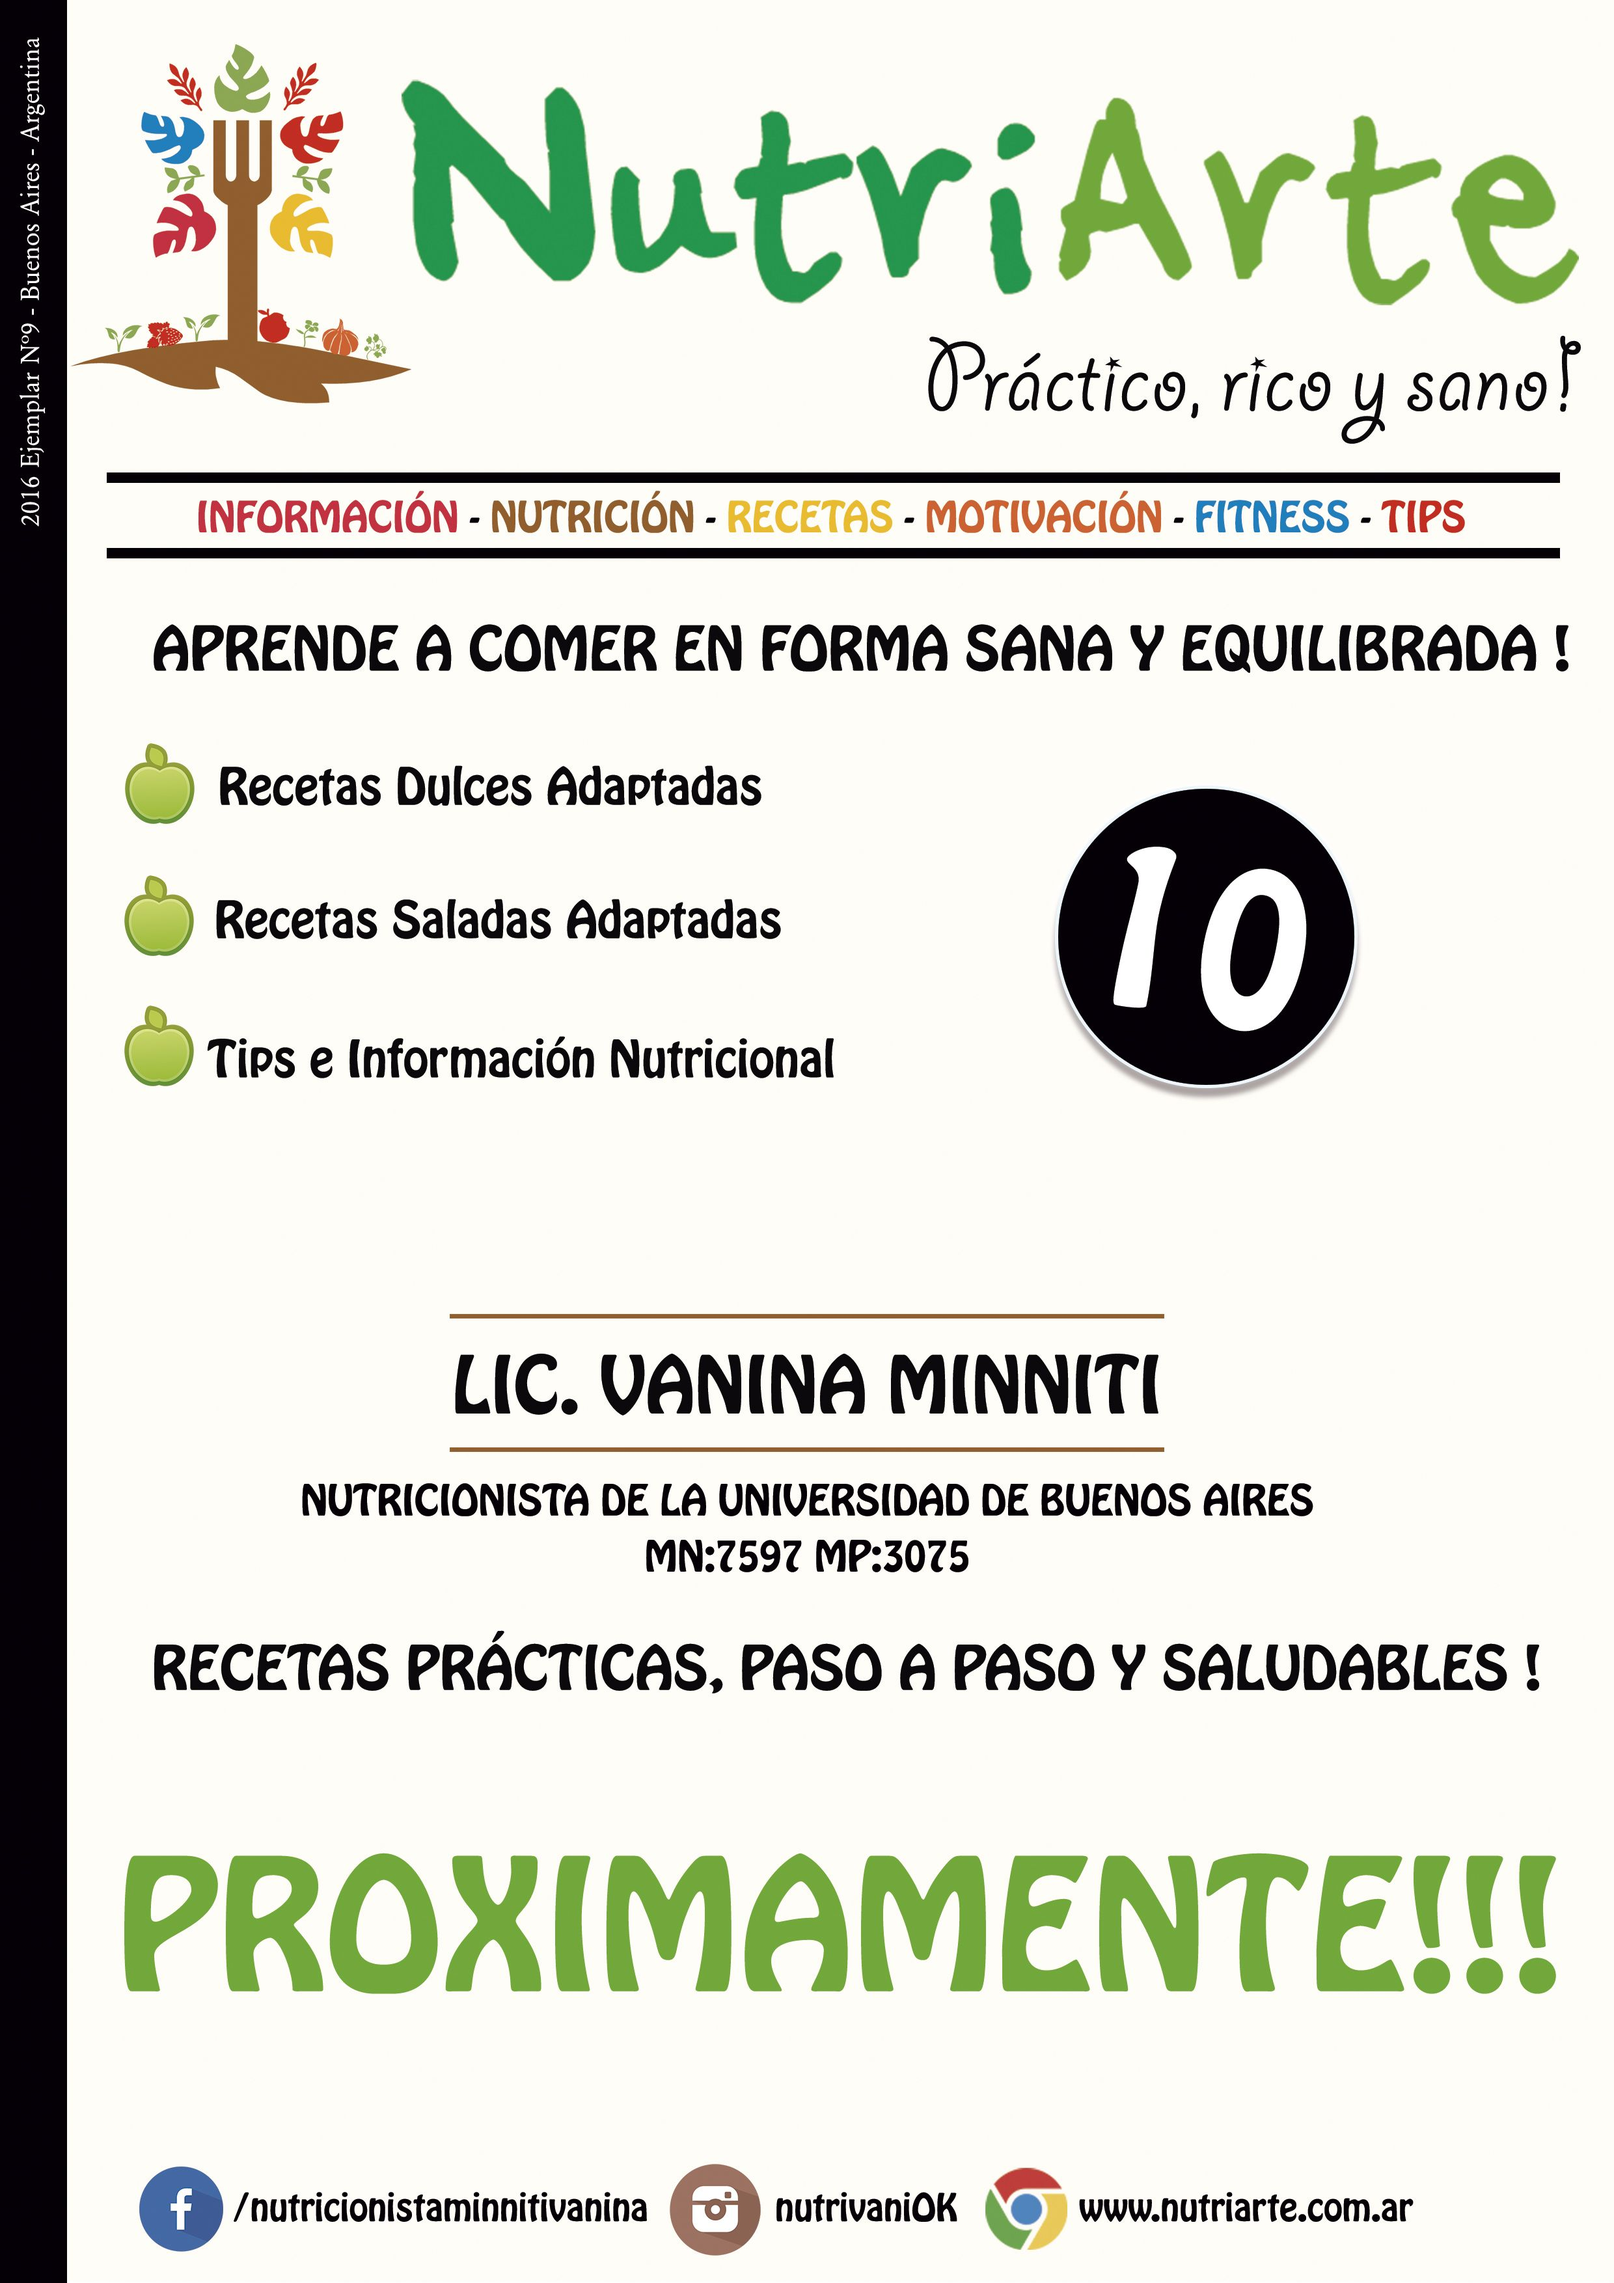
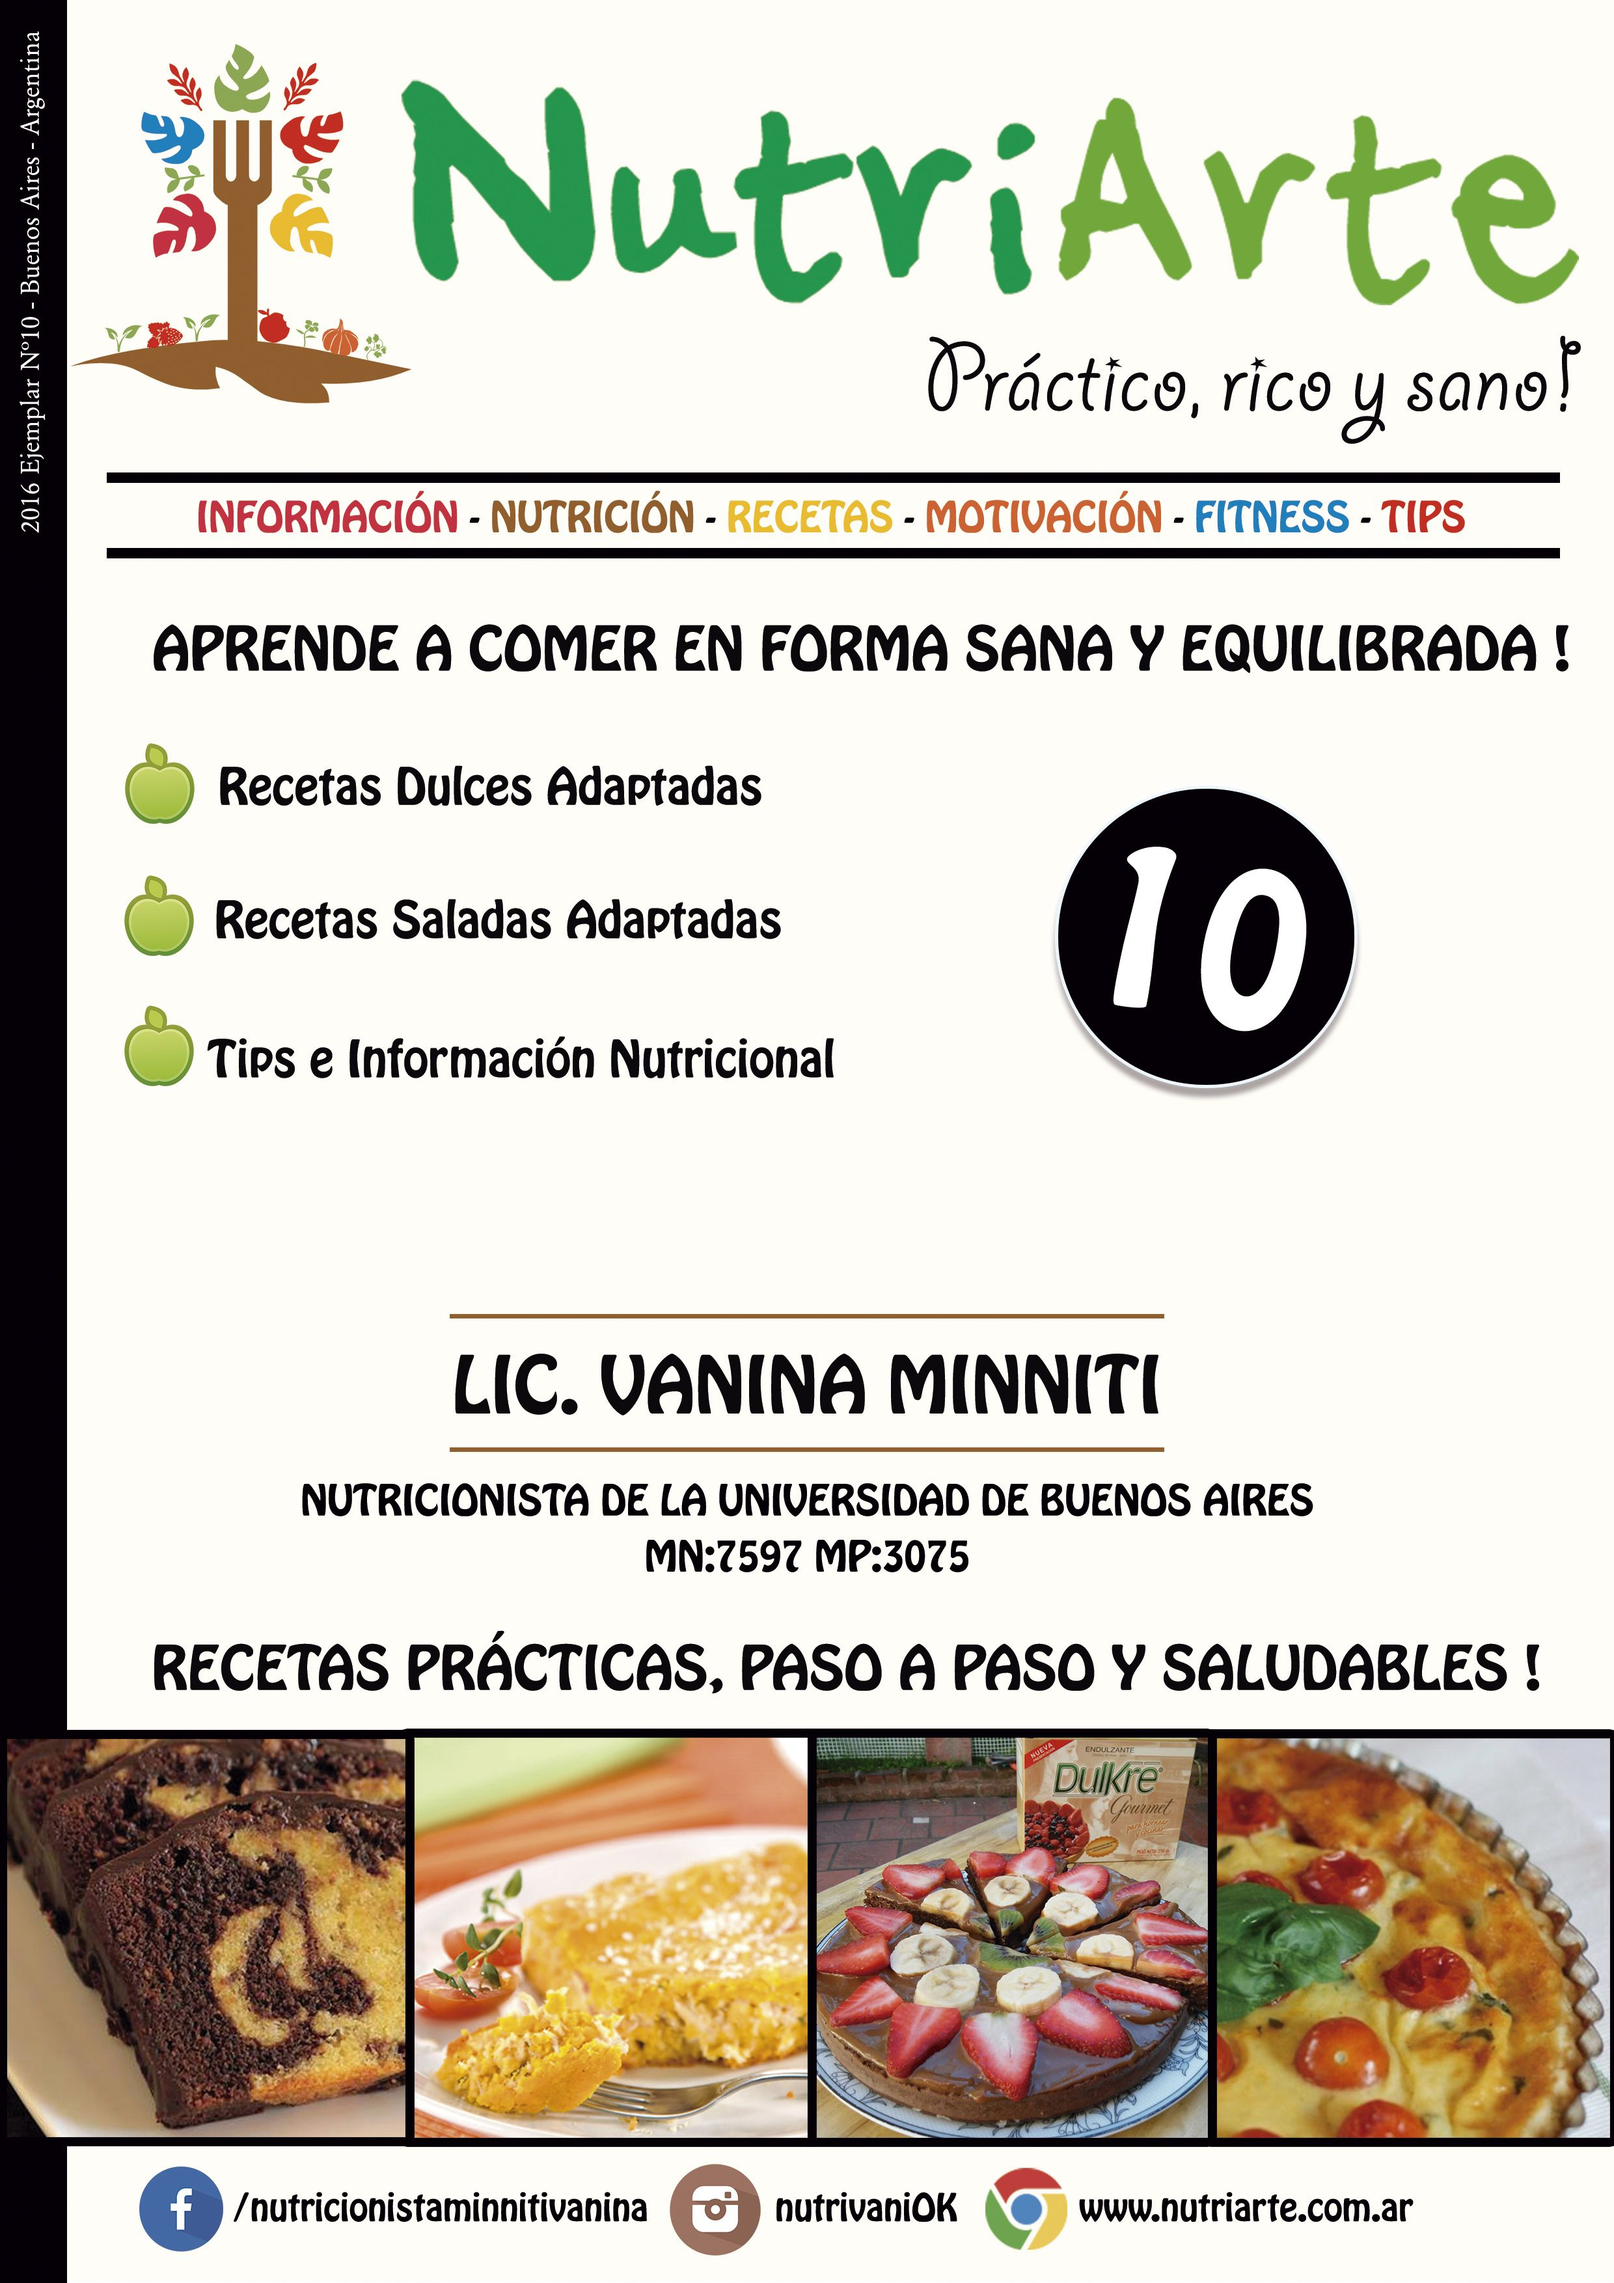
Add asset ejemplar X and MP link

Changed region(s): [[0.0, 0.7457, 1.0, 0.9632], [0.0, 0.0311, 0.031, 0.2175]]

diff --git a/index.html b/index.html
@@ -106,7 +106,7 @@
 
 <!--All page relative for advertising-->
 <div><a href="http://mpago.la/m0ot" style="position: fixed; z-index: 999999; margin-top: 300px;"><img
-src="images/fixed/fixed_coleccion.jpg" style="width: 70%;"></a></div>
+        src="images/fixed/fixed_coleccion.jpg" style="width: 70%;"></a></div>
 <!--End all page relative for advertising-->
 
 <!--#Slider Starts-->
@@ -615,7 +615,26 @@ src="images/fixed/fixed_coleccion.jpg" style="width: 70%;"></a></div>
                     <img src="images/ejemplar/ejemplarX/portadaCompress.jpg" alt="Ejemplar X"/>
                     <figcaption>
                         <p><b>Ejemplar X</b><br>"Colección Nutriarte"<br><br>
-                            PROXIMAMENTE!!!!
+                            <a mp-mode="dftl"
+                               href="https://www.mercadopago.com/mla/checkout/start?pref_id=192851636-2bac4969-1290-4489-8f71-a64aaff573fa"
+                               name="MP-payButton" class='blue-tr-l-ov-none'>COMPRAR</a>
+                            <script type="text/javascript">
+                                (function () {
+                                    function $MPC_load() {
+                                        window.$MPC_loaded !== true && (function () {
+                                            var s = document.createElement("script");
+                                            s.type = "text/javascript";
+                                            s.async = true;
+                                            s.src = document.location.protocol + "//secure.mlstatic.com/mptools/render.js";
+                                            var x = document.getElementsByTagName('script')[0];
+                                            x.parentNode.insertBefore(s, x);
+                                            window.$MPC_loaded = true;
+                                        })();
+                                    }
+
+                                    window.$MPC_loaded !== true ? (window.attachEvent ? window.attachEvent('onload', $MPC_load) : window.addEventListener('load', $MPC_load, false)) : null;
+                                })();
+                            </script>
                         </p>
                     </figcaption>
                 </figure>
